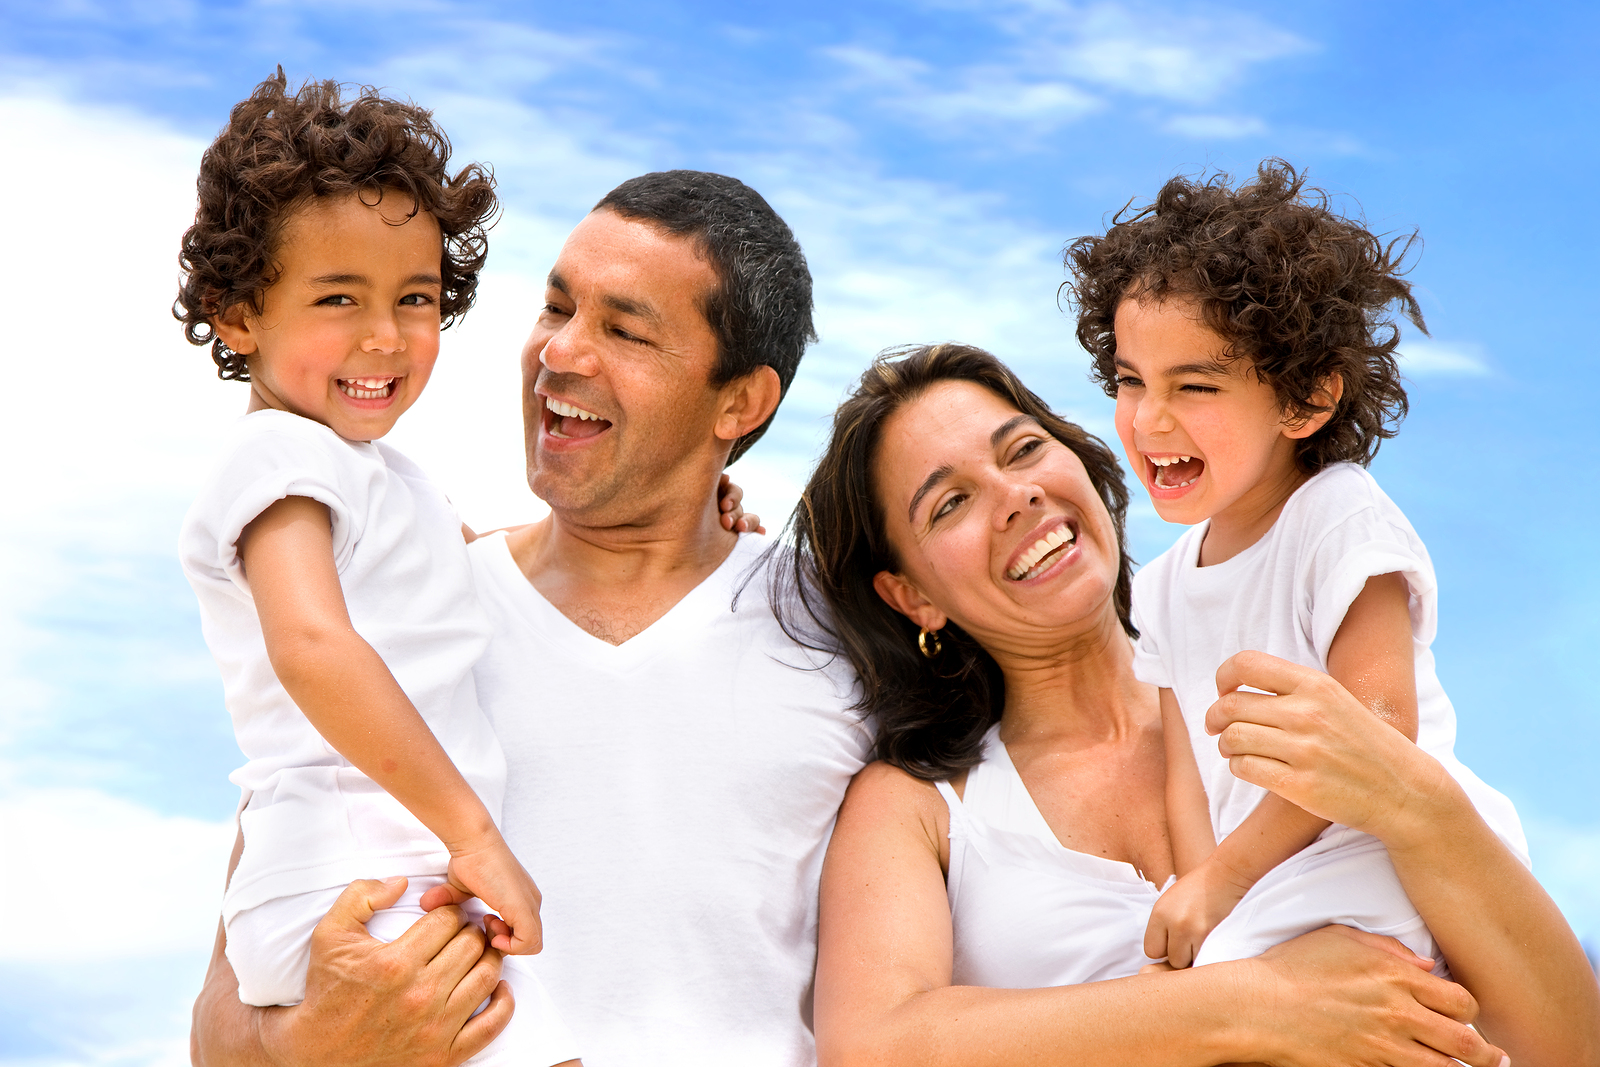
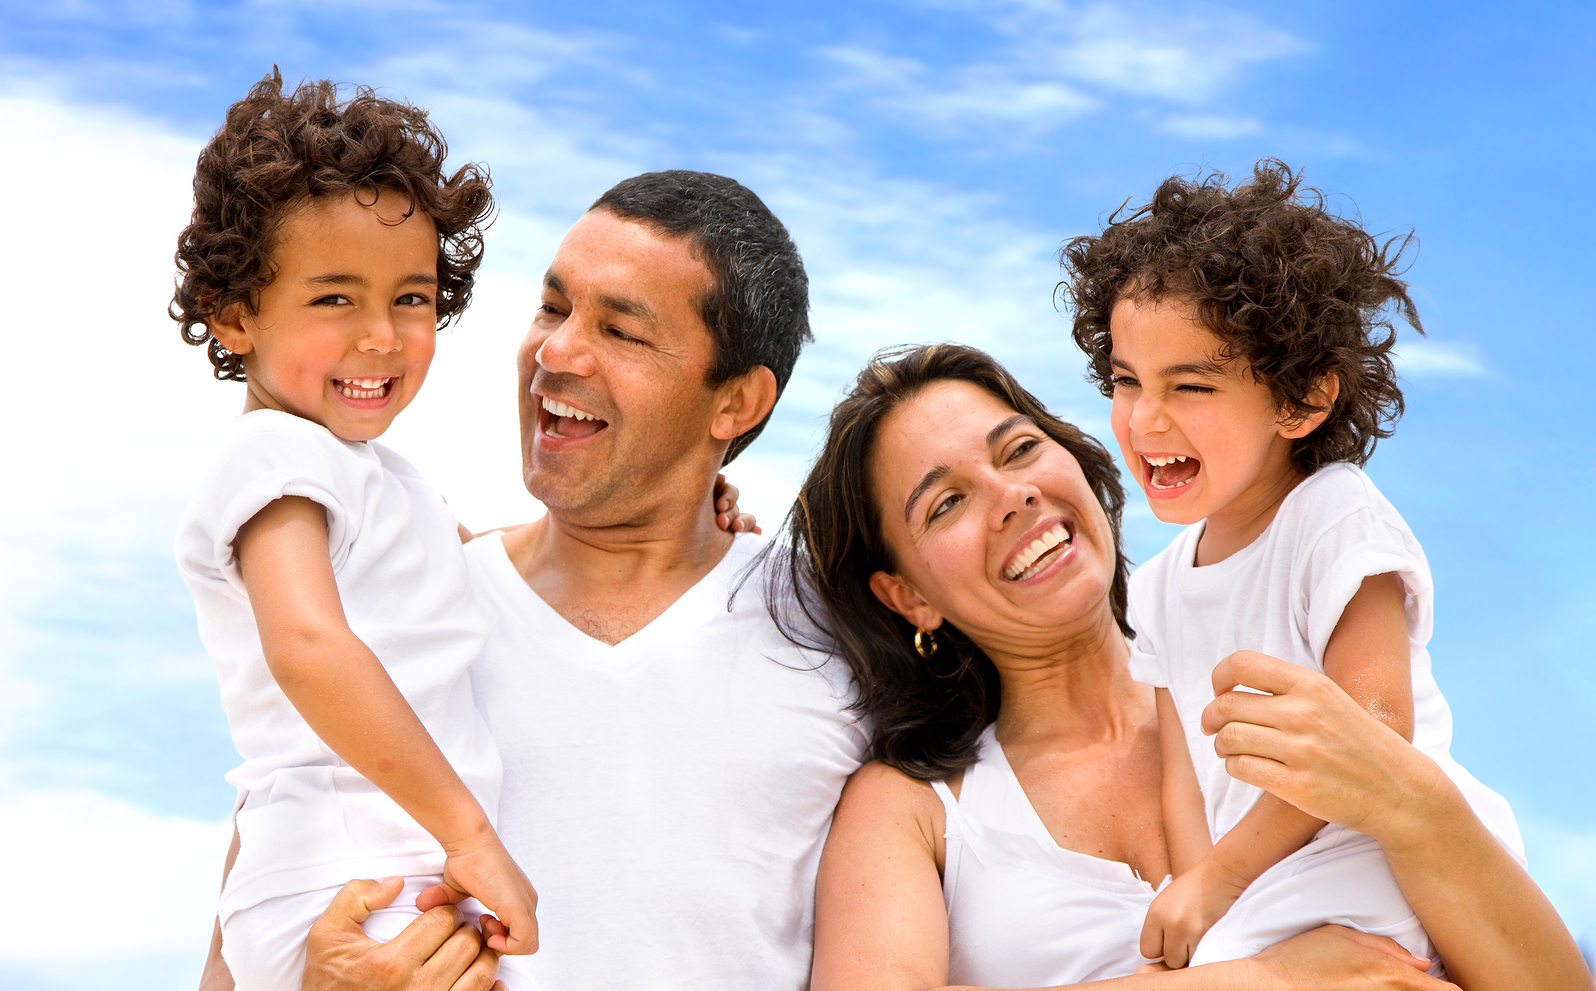
Resize main picture

diff --git a/carousel.css b/carousel.css
@@ -24,7 +24,7 @@ body {
 
 /* Declare heights because of positioning of img element */
 .carousel-item {
-  height: 36rem;
+  height: 40rem;
   background-color: #777;
 }
 .carousel-item > img {
